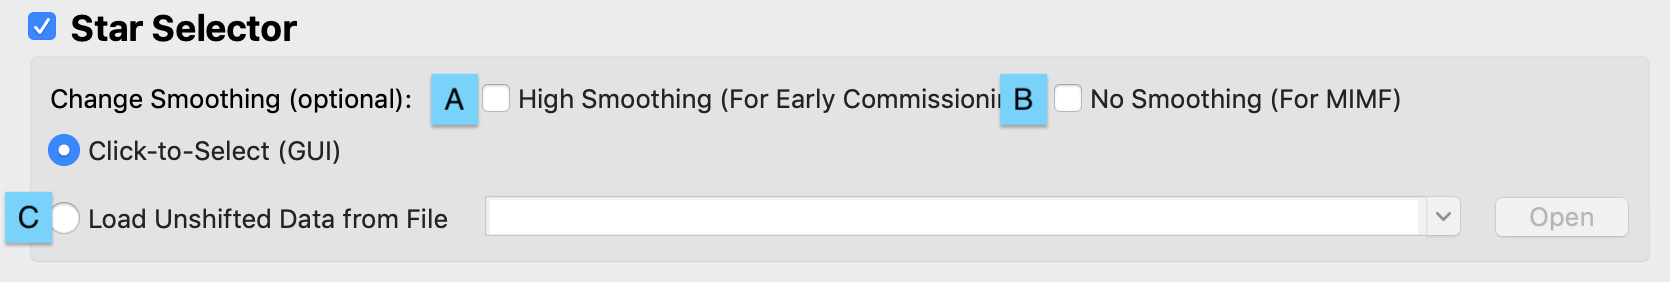
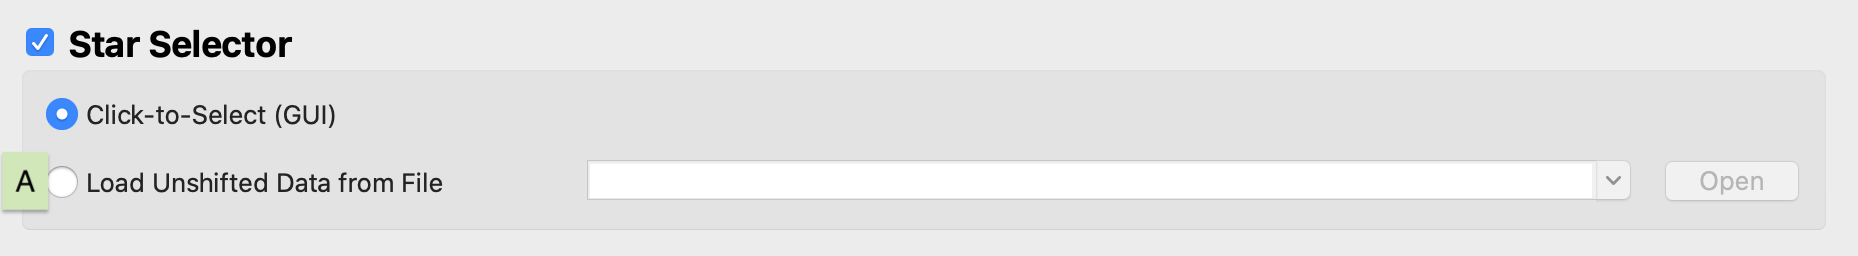
Update documentation for changes in smoothing location in the GUI

diff --git a/docs/magic_user_guide/iv_select_stars_and_write_files.md b/docs/magic_user_guide/iv_select_stars_and_write_files.md
@@ -17,11 +17,10 @@ One of the main features of MAGIC is that it allows the user to determine the gu
    ![Star Selection section of the Main GUI](./figs/figure7_main_star_selection.png)
    
    1. Ensure the **Star Selector** box is checked.
-   2. Inspect the input image and determine if your PSF(s) meet one of the two scenarios that requires a change to the smoothing technique. If you are working with early commissioning PSFs, check the **High Smoothing (For Early Commissioning)** box (*A*). If you are working with MIMF PSFs, check the **Low Smoothing (For MIMF)** box (*B*). For high smoothing, this flag widens the smoothing filter for diffuse images in early commissioning stages when the telescope is un-phased (If you are unsure if the PSFs are phased, consult the procedure’s information on your observation). For low smoothing, this flag applies very little smoothing to better find the bright knot on doughnut PSFs like in MIMF rather than finding the center of the PSF. 
-   3. If desired, load pre-selected guide and reference stars from one or more files by selecting the **Load from File** (*C*) option. Clicking the dropdown menu will show which files are already selected. If you want to change this, click the the "Open" button, and select the desired un-shifted guiding selections file(s), using shift+click or command+click on a MAC (ctrl+click on a PC) to select multiple files. These files must include X/Y pixel coordinates and count rates. Providing this will bypass using the Star Selection GUI to Click-to-Select the guide and reference stars. The drop down list will be populated with all the files chosen. 
+   2. If desired, load pre-selected guide and reference stars from one or more files by selecting the **Load from File** (*C*) option. Clicking the dropdown menu will show which files are already selected. If you want to change this, click the the "Open" button, and select the desired un-shifted guiding selections file(s), using shift+click or command+click on a MAC (ctrl+click on a PC) to select multiple files. These files must include X/Y pixel coordinates and count rates. Providing this will bypass using the Star Selection GUI to Click-to-Select the guide and reference stars. The drop down list will be populated with all the files chosen. 
       1. When loading in a file, it is better to leave the file in it's original root directory, rather than copy/paste the file to the new root directory. See below for reasoning.
       2. The order these files are selected (and they order they are in the list) will be the order they are saved out in.
-   4. How to check the configuration choices: There is an all_guiding_selections.yaml file that will be written out to the top level of your root directory which will keep track of all the guiding configurations selected. These configurations will be listed under the header "guiding_config_#" which references which sub-directory the data is saved under, and is followed by a list of numbers where the first number is the guide star and the following numbers are the reference stars (note: order of the reference stars does not matter). The numbering system for the stars is the same as the user sees when mousing over the image in the Star Selector GUI. When loading guiding_selections files, this YAML file will be able to pull the config information if the file loaded in is saved in a sub-directory named "guiding_config_#/" and is saved in a root directory that has an all_guiding_selections.yaml file. In this case, the code will pull the configuration from the original root's yaml file corresponding to the config number of the directory the data is saved under. If either of these conditions are not met, the loaded-in file will still be run through and saved out, but the yaml file will contain an empty list ("[]") for this configuration. Therefore, when loading in a file, it is better to leave the file where it is, rather than copy/paste the file to the new root directory. 
+   3. How to check the configuration choices: There is an all_guiding_selections.yaml file that will be written out to the top level of your root directory which will keep track of all the guiding configurations selected. These configurations will be listed under the header "guiding_config_#" which references which sub-directory the data is saved under, and is followed by a list of numbers where the first number is the guide star and the following numbers are the reference stars (note: order of the reference stars does not matter). The numbering system for the stars is the same as the user sees when mousing over the image in the Star Selector GUI. When loading guiding_selections files, this YAML file will be able to pull the config information if the file loaded in is saved in a sub-directory named "guiding_config_#/" and is saved in a root directory that has an all_guiding_selections.yaml file. In this case, the code will pull the configuration from the original root's yaml file corresponding to the config number of the directory the data is saved under. If either of these conditions are not met, the loaded-in file will still be run through and saved out, but the yaml file will contain an empty list ("[]") for this configuration. Therefore, when loading in a file, it is better to leave the file where it is, rather than copy/paste the file to the new root directory. 
 
 2. Set file writer parameters:
     

diff --git a/docs/magic_user_guide/iii_determining_and_loading_the_input_image.md b/docs/magic_user_guide/iii_determining_and_loading_the_input_image.md
@@ -101,6 +101,8 @@ MAGIC expects to use a rate.fits input image, ie one with units of Dn/s (also kn
       3. Click **Done** to save and apply these selections, or click **Cancel** to close the window without updating the background star selections.
       4. Verify that the indicator shows that the correct number of background stars have been added.
       5. The background stars will remain loaded until the user clicks the **Delete Background Stars** button (*F*) in the main GUI. This means that these will stay as you move to the next observation which is helpful if the guide star or PA has not changed, however if either has changed, you will need to either delete the background stars or add new ones using the steps above.
+    5. (Optional) Inspect the input image and determine if your PSF(s) meet one of the two scenarios that requires a change to the smoothing technique. If you are working with early commissioning PSFs, check the **High Smoothing (For Early Commissioning)** box (*G*). If you are working with MIMF PSFs, check the **Low Smoothing (For MIMF)** box (*H*). For high smoothing, this flag widens the smoothing filter for diffuse images in early commissioning stages when the telescope is un-phased (If you are unsure if the PSFs are phased, consult the procedure’s information on your observation). For low smoothing, this flag applies very little smoothing to better find the bright knot on doughnut PSFs like in MIMF rather than finding the center of the PSF. 
+
 
 #### Next
 
